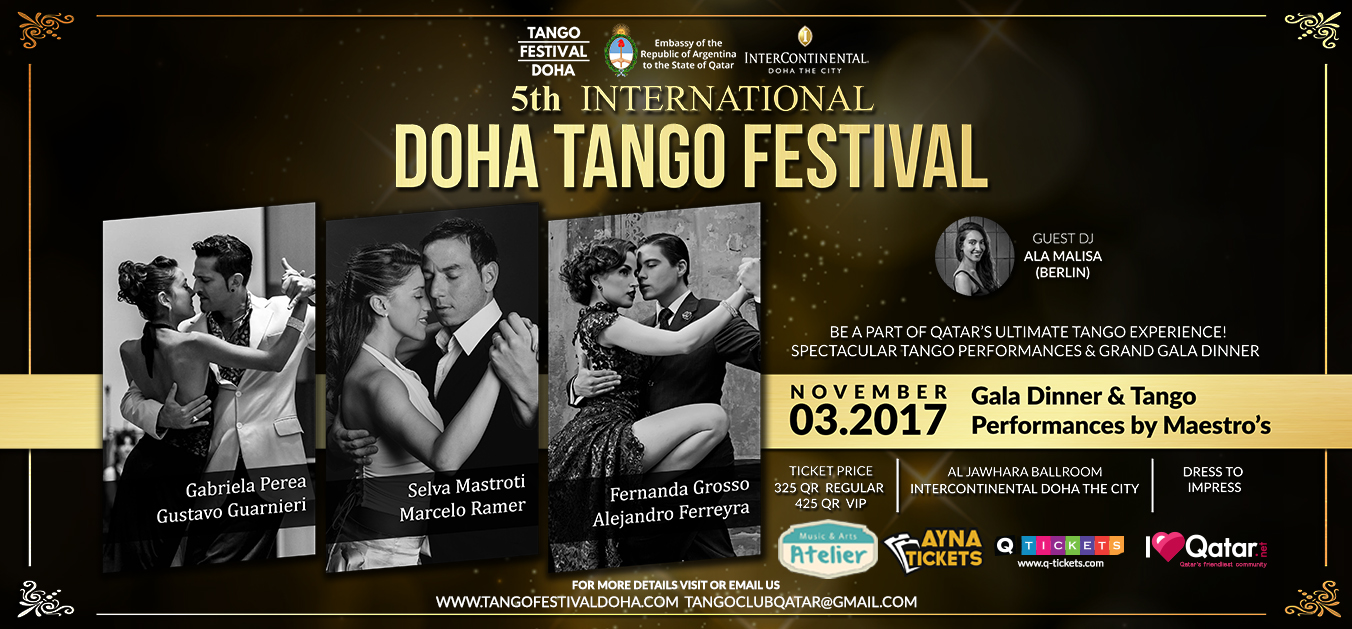
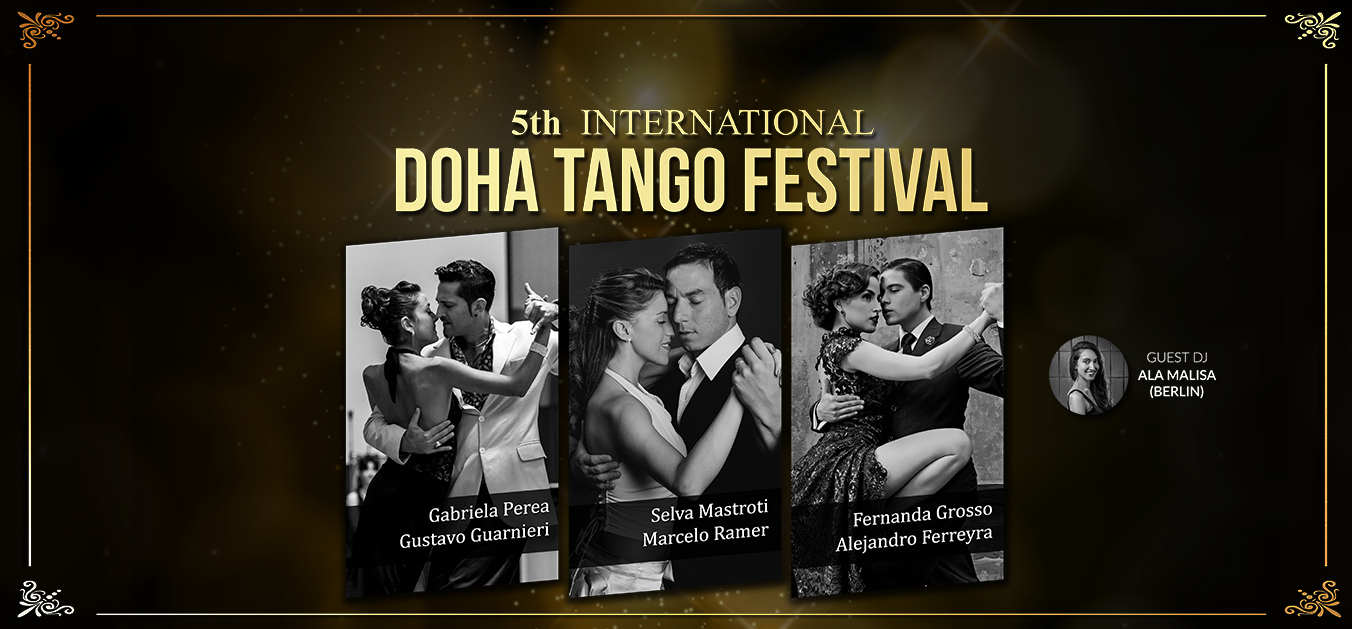
done changes in all page

diff --git a/css/style.css b/css/style.css
@@ -31,10 +31,6 @@
 	padding-bottom:5px;
 
 	}
-	@media only screen and (max-width: 480px) {
-    .button1 .button4{
-background-color:transparent;
-color:black;
-    }
-}
+	
+	
 	

diff --git a/maesteos.php b/maesteos.php
@@ -88,6 +88,8 @@
 																	<p style="text-align:justify">
 																		Ala Malisa is a dancer, teacher and choreographer; devoted to dancing since earliest age (folk dance, ballet, modern jazz, broadway jazz, swing jazz, contemporary dance, contact improvisation), 2009-2013 leader of children’s dance group "Stonoga", 2011 graduated contemporary dance studies, 2007-2012 member of "House of Dance" Jazz Theatre and Physical Dance Theatre "Pracownia fizyczna"; since 5 years madly in love with tango dance and music - 2013 moved to Berlin just for tango; since that point intensely developing her tango skills in Germany, Argentina and Turkey. Her teachers were i.a. Ruben Feliz, Silvio Lavila, Sara Grdan&Ivan Terrazas, Janina Quinones, Noelia Hurtado, Stefania Colina&Juan Martin Cararra, Fatima Vitale.
 																	</p>
+																	<center><button class="button1 button4" style="background-color:#d91f26; color:white;">Register</button>
+																	<button class="button1 button4" style="background-color:#d91f26; color:white;">Schedules</button></center>
 																</div>
 															</li>
 										

diff --git a/register.php b/register.php
@@ -30,8 +30,5 @@
 						</div>
 						
 					</div>
-			</div>
-					
-	
-		
+			</div>		
 <?php include_once "footer.php";?>
